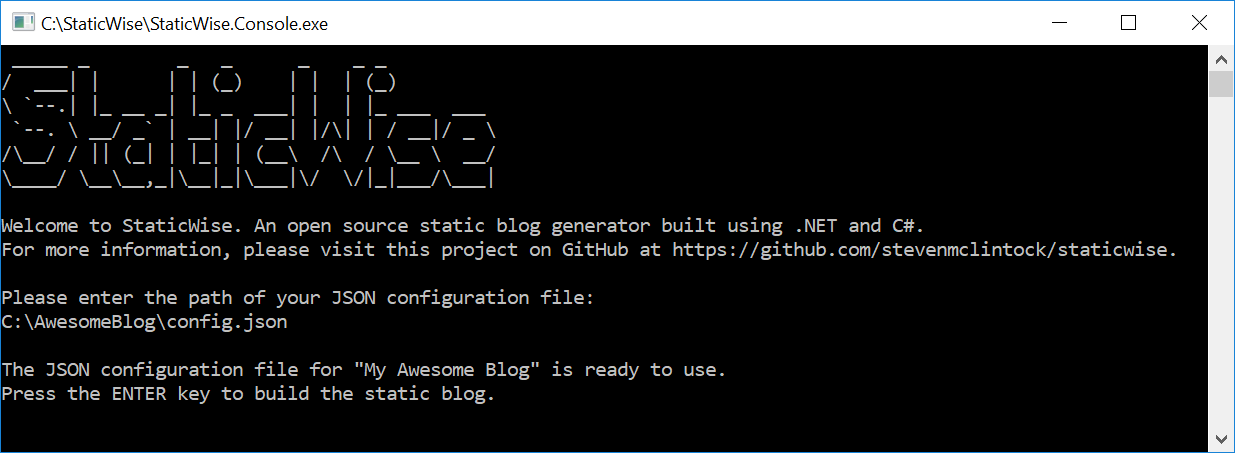
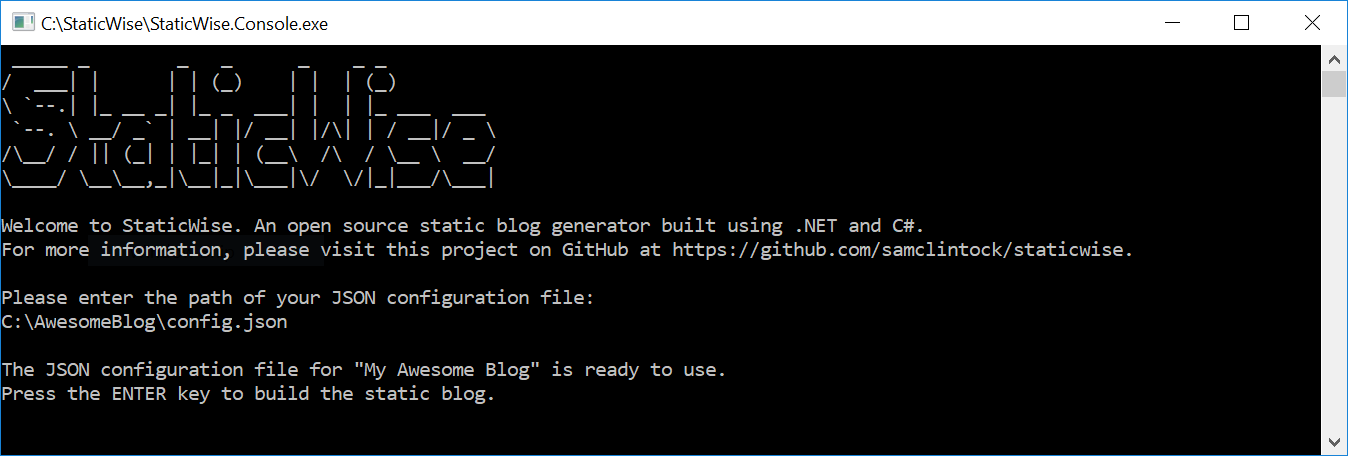
Change of GitHub username

diff --git a/StaticWise.Console/Program.cs b/StaticWise.Console/Program.cs
@@ -24,7 +24,7 @@ namespace StaticWise
 \____/ \__\__,_|\__|_|\___|\/  \/|_|___/\___|
 
 Welcome to StaticWise. An open source static blog generator built using .NET and C#.
-For more information, please visit this project on GitHub at https://github.com/stevenmclintock/staticwise.";
+For more information, please visit this project on GitHub at https://github.com/samclintock/staticwise.";
 
         // Initialize the required manager objects
         static IFileManager _fileManager = new FileManager();
